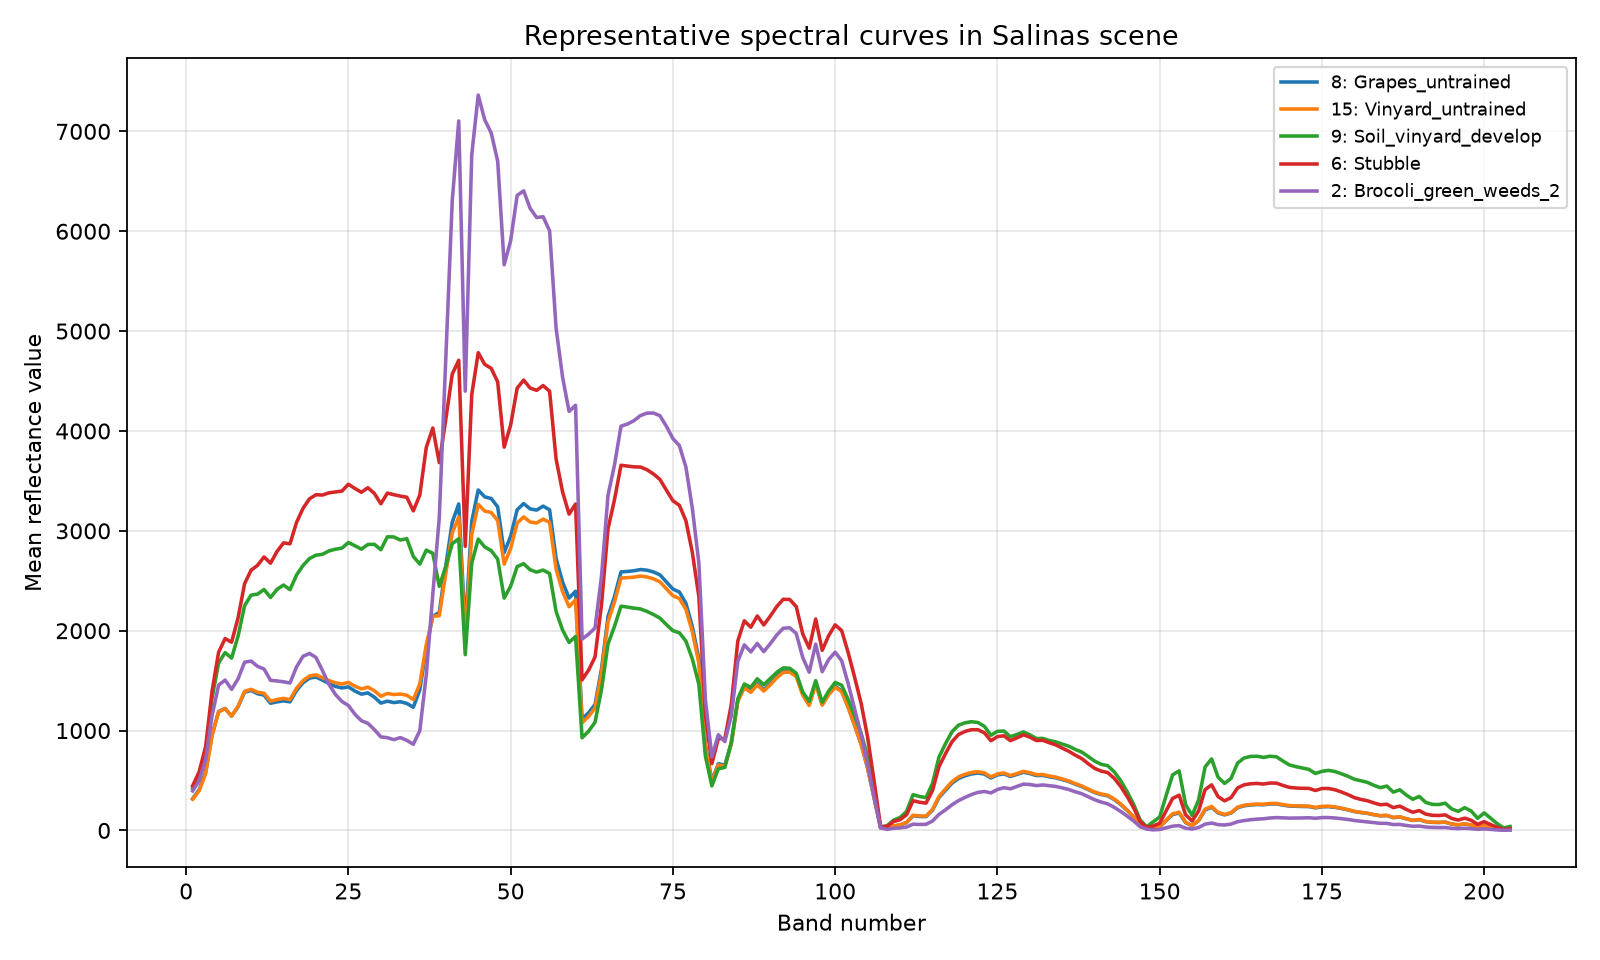
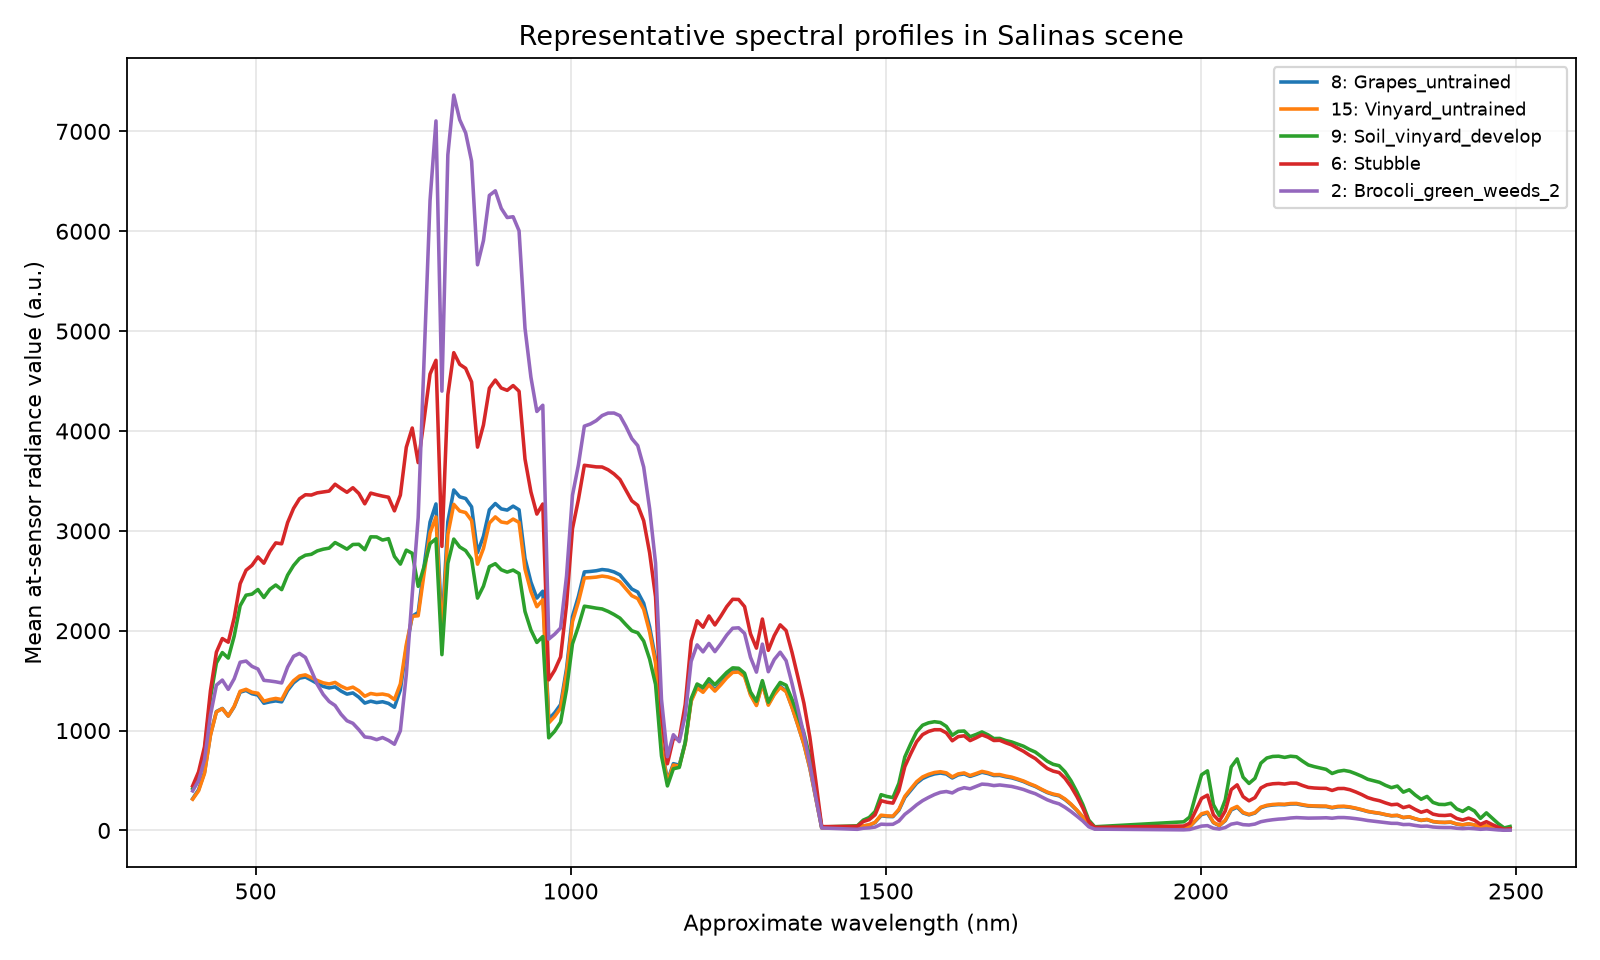
Improve hyperspectral academic documentation

diff --git a/T2/hsi_utils.py b/T2/hsi_utils.py
@@ -44,6 +44,12 @@ DEFAULT_GT_NAMES = (
     "botswana_gt",
 )
 
+SALINAS_REMOVED_BANDS_1BASED = (
+    *range(108, 113),
+    *range(154, 168),
+    224,
+)
+
 
 CLASS_NAMES = {
     "indian": {
@@ -167,6 +173,72 @@ def auto_rgb_bands(band_count: int) -> tuple[int, int, int]:
     green = max(1, min(band_count, round(band_count * 0.40)))
     blue = max(1, min(band_count, round(band_count * 0.20)))
     return red, green, blue
+
+
+def aviris_wavelengths_nm(
+    total_bands: int = 224,
+    start_nm: float = 400.0,
+    end_nm: float = 2500.0,
+    removed_bands_1based: tuple[int, ...] = (),
+) -> np.ndarray:
+    """Approximate AVIRIS band-center wavelengths in nm.
+
+    EHU .mat files do not include per-band wavelength metadata. For academic
+    reporting, this approximation maps AVIRIS 224 bands linearly from
+    400 nm to 2500 nm and removes the bands documented by EHU.
+    """
+    wavelengths = np.linspace(start_nm, end_nm, total_bands, dtype=np.float32)
+    if not removed_bands_1based:
+        return wavelengths
+
+    keep = np.ones(total_bands, dtype=bool)
+    for band in removed_bands_1based:
+        if 1 <= band <= total_bands:
+            keep[band - 1] = False
+    return wavelengths[keep]
+
+
+def salinas_corrected_wavelengths_nm(band_count: int) -> np.ndarray | None:
+    wavelengths = aviris_wavelengths_nm(removed_bands_1based=SALINAS_REMOVED_BANDS_1BASED)
+    if wavelengths.size == band_count:
+        return wavelengths
+    return None
+
+
+def default_false_color_bands(dataset_key: str | None, band_count: int) -> tuple[int, int, int]:
+    """Return 1-based RGB band numbers with a dataset-aware Salinas default."""
+    if dataset_key == "salinas" and band_count >= 57:
+        # NIR, red and green bands: vegetation appears bright in the red channel.
+        return 57, 27, 17
+    return auto_rgb_bands(band_count)
+
+
+def band_wavelength_labels(
+    dataset_key: str | None,
+    bands_1based: tuple[int, int, int],
+    band_count: int,
+) -> list[str]:
+    wavelengths = salinas_corrected_wavelengths_nm(band_count) if dataset_key == "salinas" else None
+    labels = []
+    for band in bands_1based:
+        if wavelengths is not None and 1 <= band <= len(wavelengths):
+            labels.append(f"{band} (~{wavelengths[band - 1]:.0f} nm)")
+        else:
+            labels.append(str(band))
+    return labels
+
+
+def spectral_axis(
+    dataset_key: str | None,
+    band_count: int,
+    prefer_wavelength: bool = True,
+) -> tuple[np.ndarray, str]:
+    """Return x-axis values and label for spectral plots."""
+    if prefer_wavelength and dataset_key == "salinas":
+        wavelengths = salinas_corrected_wavelengths_nm(band_count)
+        if wavelengths is not None:
+            return wavelengths, "Approximate wavelength (nm)"
+    return np.arange(1, band_count + 1), "Band number"
 
 
 def infer_dataset_key(*names: str) -> str | None:

diff --git a/T2/1.py b/T2/1.py
@@ -19,26 +19,42 @@ os.environ.setdefault("MPLCONFIGDIR", str(Path(".matplotlib").resolve()))
 import matplotlib.pyplot as plt
 import numpy as np
 
-from hsi_utils import auto_rgb_bands, load_cube
+from hsi_utils import band_wavelength_labels, default_false_color_bands, infer_dataset_key, load_cube
 
 
-def robust_normalize(channel: np.ndarray, low: float = 2.0, high: float = 98.0) -> np.ndarray:
+def normalize_channel(
+    channel: np.ndarray,
+    stretch: str,
+    low: float = 2.0,
+    high: float = 98.0,
+) -> np.ndarray:
     """Normalize one band with percentile clipping to improve visual contrast."""
     arr = channel.astype(np.float32, copy=False)
-    lo, hi = np.percentile(arr, [low, high])
+    if stretch == "minmax":
+        lo, hi = float(arr.min()), float(arr.max())
+    else:
+        lo, hi = np.percentile(arr, [low, high])
     if hi <= lo:
         return np.zeros(arr.shape, dtype=np.float32)
     return np.clip((arr - lo) / (hi - lo), 0.0, 1.0)
 
 
-def build_false_color(cube: np.ndarray, bands_1based: tuple[int, int, int]) -> np.ndarray:
+def build_false_color(
+    cube: np.ndarray,
+    bands_1based: tuple[int, int, int],
+    stretch: str,
+    clip_percentiles: tuple[float, float],
+) -> np.ndarray:
     band_count = cube.shape[2]
     if any(b < 1 or b > band_count for b in bands_1based):
         raise ValueError(f"Band numbers must be in 1..{band_count}, got {bands_1based}")
 
     # Extract only three bands, so memory stays small under the 1 GB limit.
     bands_0based = [b - 1 for b in bands_1based]
-    channels = [robust_normalize(cube[:, :, b]) for b in bands_0based]
+    channels = [
+        normalize_channel(cube[:, :, b], stretch, clip_percentiles[0], clip_percentiles[1])
+        for b in bands_0based
+    ]
     return np.dstack(channels)
 
 
@@ -55,19 +71,36 @@ def parse_args() -> argparse.Namespace:
         metavar=("R", "G", "B"),
         help="1-based band numbers mapped to red, green and blue. Auto-selected if omitted.",
     )
+    parser.add_argument(
+        "--stretch",
+        choices=("percentile", "minmax"),
+        default="percentile",
+        help="Contrast stretch used for PNG display.",
+    )
+    parser.add_argument(
+        "--clip-percentiles",
+        type=float,
+        nargs=2,
+        default=(2.0, 98.0),
+        metavar=("LOW", "HIGH"),
+        help="Percentiles used when --stretch percentile is selected.",
+    )
     return parser.parse_args()
 
 
 def main() -> None:
     args = parse_args()
     cube, variable = load_cube(args.input, args.variable)
-    bands = tuple(args.bands) if args.bands else auto_rgb_bands(cube.shape[2])
-    rgb = build_false_color(cube, bands)
+    dataset_key = infer_dataset_key(str(args.input), variable)
+    bands = tuple(args.bands) if args.bands else default_false_color_bands(dataset_key, cube.shape[2])
+    rgb = build_false_color(cube, bands, args.stretch, tuple(args.clip_percentiles))
 
     args.output.parent.mkdir(parents=True, exist_ok=True)
     plt.imsave(args.output, rgb)
     print(f"Saved false-color image to {args.output}")
     print(f"Cube variable: {variable}; shape: {cube.shape}; RGB bands: {bands}")
+    print(f"Band wavelength labels: {band_wavelength_labels(dataset_key, bands, cube.shape[2])}")
+    print(f"Display stretch: {args.stretch}; clip percentiles: {tuple(args.clip_percentiles)}")
 
 
 if __name__ == "__main__":

diff --git a/T2/2.py b/T2/2.py
@@ -20,7 +20,7 @@ os.environ.setdefault("MPLCONFIGDIR", str(Path(".matplotlib").resolve()))
 import matplotlib.pyplot as plt
 import numpy as np
 
-from hsi_utils import infer_dataset_key, label_for_class, load_cube, load_ground_truth, parse_classes
+from hsi_utils import infer_dataset_key, label_for_class, load_cube, load_ground_truth, parse_classes, spectral_axis
 
 
 def mean_spectrum_for_class(
@@ -43,6 +43,21 @@ def mean_spectrum_for_class(
     return spectra.mean(axis=0)
 
 
+def normalize_spectrum(spectrum: np.ndarray, method: str) -> np.ndarray:
+    arr = spectrum.astype(np.float32, copy=True)
+    if method == "minmax":
+        lo, hi = float(arr.min()), float(arr.max())
+        if hi > lo:
+            return (arr - lo) / (hi - lo)
+        return np.zeros_like(arr)
+    if method == "l2":
+        norm = float(np.linalg.norm(arr))
+        if norm > 0:
+            return arr / norm
+        return arr
+    return arr
+
+
 def parse_args() -> argparse.Namespace:
     parser = argparse.ArgumentParser()
     parser.add_argument("--cube", type=Path, default=Path("data/Salinas_corrected.mat"))
@@ -61,6 +76,18 @@ def parse_args() -> argparse.Namespace:
         default=2000,
         help="Maximum sampled pixels per class. Lower this if memory is very tight.",
     )
+    parser.add_argument(
+        "--x-axis",
+        choices=("wavelength", "band"),
+        default="wavelength",
+        help="Use approximate wavelength or band number on the spectral curve x-axis.",
+    )
+    parser.add_argument(
+        "--normalize",
+        choices=("none", "minmax", "l2"),
+        default="none",
+        help="Optional normalization for each plotted mean spectrum.",
+    )
     parser.add_argument("--seed", type=int, default=2025)
     return parser.parse_args()
 
@@ -73,16 +100,23 @@ def main() -> None:
     dataset_key = infer_dataset_key(str(args.cube), cube_variable, str(args.gt), gt_variable)
     rng = np.random.default_rng(args.seed)
 
-    x = np.arange(1, cube.shape[2] + 1)
+    x, xlabel = spectral_axis(dataset_key, cube.shape[2], prefer_wavelength=args.x_axis == "wavelength")
+    ylabel = "Mean at-sensor radiance value (a.u.)"
+    if args.normalize == "minmax":
+        ylabel = "Min-max normalized mean spectrum"
+    elif args.normalize == "l2":
+        ylabel = "L2-normalized mean spectrum"
+
     plt.figure(figsize=(10, 6), dpi=160)
     for class_id in class_ids:
         spectrum = mean_spectrum_for_class(cube, gt, class_id, args.max_pixels, rng)
+        spectrum = normalize_spectrum(spectrum, args.normalize)
         label = label_for_class(dataset_key, class_id)
         plt.plot(x, spectrum, linewidth=1.6, label=f"{class_id}: {label}")
 
-    plt.title("Representative spectral curves in Salinas scene")
-    plt.xlabel("Band number")
-    plt.ylabel("Mean reflectance value")
+    plt.title("Representative spectral profiles in Salinas scene")
+    plt.xlabel(xlabel)
+    plt.ylabel(ylabel)
     plt.grid(True, alpha=0.3)
     plt.legend(fontsize=8)
     plt.tight_layout()
@@ -93,6 +127,7 @@ def main() -> None:
     print(f"Saved spectral-curve plot to {args.output}")
     print(f"Cube variable: {cube_variable}; GT variable: {gt_variable}; shape: {cube.shape}")
     print(f"Classes: {class_ids}; max_pixels/class: {args.max_pixels}")
+    print(f"X-axis: {args.x_axis}; normalization: {args.normalize}")
 
 
 if __name__ == "__main__":

diff --git a/README.md b/README.md
@@ -40,6 +40,20 @@ data/Salinas_gt.mat
 
 说明：原始 `.mat` 数据文件较大，仓库中没有上传，需要按上述方式自行下载。
 
+## 数据集与光谱含义
+
+本项目默认使用的 Salinas scene 是 AVIRIS 传感器获取的高光谱数据。`Salinas_corrected.mat` 的空间尺寸为 `512 x 217`，包含 `204` 个有效波段。原始 AVIRIS 数据通常有 `224` 个波段，EHU 提供的 corrected 版本去除了部分水汽吸收等噪声波段，因此剩余 `204` 个波段。
+
+需要注意的是，EHU 页面提供的 Salinas 数据通常表述为 **at-sensor radiance data**。因此，本项目中光谱曲线纵轴默认写作：
+
+```text
+Mean at-sensor radiance value (a.u.)
+```
+
+也就是平均传感器接收辐亮度/数据值，单位以任意单位 `a.u.` 表示。除非额外进行大气校正或反射率标定，否则不应把它严格表述为地表反射率。
+
+由于 `.mat` 文件中没有直接保存每个波段的中心波长，本项目在绘制 Salinas 光谱曲线时使用 AVIRIS 常见范围 `400 nm - 2500 nm` 做线性近似，并删除 EHU corrected 数据中被去除的波段，从而得到 `204` 个近似波长位置。该处理主要用于增强图像解读和汇报表达；如果有传感器官方精确波长表，应优先替换为官方波长。
+
 ## 环境安装
 
 建议使用虚拟环境：
@@ -80,6 +94,20 @@ data/Salinas_corrected.mat
 T2/1.png
 ```
 
+`T2/1.py` 默认采用假彩色合成。对于 Salinas corrected 数据，默认波段组合为：
+
+```text
+R = 第 57 波段，约 927 nm，近红外
+G = 第 27 波段，约 645 nm，红光
+B = 第 17 波段，约 551 nm，绿光
+```
+
+该组合相当于“近红外-红-绿”假彩色合成，常用于突出植被差异。显示前会对每个通道做 `2% - 98%` 百分位拉伸，减少极端值对显示效果的影响。若希望使用普通 min-max 拉伸，也可以运行：
+
+```bash
+python T2/1.py --stretch minmax
+```
+
 ### 2. 生成典型地物光谱曲线图
 
 运行：
@@ -99,6 +127,18 @@ data/Salinas_gt.mat
 
 ```text
 T2/2.png
+```
+
+`T2/2.py` 默认使用近似波长作为横轴，而不是仅使用波段编号。若只想显示波段编号，可以运行：
+
+```bash
+python T2/2.py --x-axis band
+```
+
+光谱曲线默认绘制原始平均辐亮度/数据值，不做归一化。若只比较曲线形状、弱化不同地物整体亮度差异，可以使用 min-max 归一化：
+
+```bash
+python T2/2.py --normalize minmax
 ```
 
 ## 代码文件说明
@@ -162,6 +202,12 @@ spectrum = spectra.mean(axis=0)
 python T2/1.py --bands 57 27 17
 ```
 
+手动指定显示拉伸方式：
+
+```bash
+python T2/1.py --stretch minmax
+```
+
 手动指定要绘制的地物类别：
 
 ```bash
@@ -172,6 +218,12 @@ python T2/2.py --classes 1,6,8,10,15
 
 ```bash
 python T2/2.py --max-pixels 500
+```
+
+按曲线形状进行归一化显示：
+
+```bash
+python T2/2.py --normalize minmax
 ```
 
 ## 更换数据集
@@ -191,6 +243,25 @@ python T2/2.py --cube data/example.mat --gt data/example_gt.mat --cube-variable 
 ```
 
 注意：如果数据集没有 ground truth 标注文件，只能运行 `T2/1.py` 生成影像可视化图，不能按地物类别绘制光谱曲线。
+
+## 学术注意事项与可改进方向
+
+本项目已经完成题目要求的两个核心输出，但如果面向高光谱遥感方向的进一步考察，还可以从以下方面继续增强：
+
+1. **精确波长表**  
+   当前 Salinas 光谱曲线横轴使用 AVIRIS `400 nm - 2500 nm` 范围的线性近似波长，并根据 EHU corrected 数据删除水汽吸收等无效波段。该做法适合本题可视化汇报，但如果要写正式论文或进一步分析，应使用 AVIRIS 官方 band center wavelength 表。
+
+2. **辐亮度与反射率区分**  
+   当前曲线默认显示 at-sensor radiance/data value，不能直接等同于地表反射率。若要比较真实材料光谱特征，应进一步做辐射定标、大气校正或使用已经转为 reflectance 的数据。
+
+3. **光谱预处理**  
+   本题使用 EHU 的 corrected 数据，已经去除了部分噪声波段。更严格的研究流程还可以加入光谱平滑、异常像元剔除、归一化或标准化等预处理，并说明每一步对曲线形态的影响。
+
+4. **分割/分类算法边界**  
+   当前 `T2/2.py` 使用官方 ground truth 标注图进行标签掩膜分割，目的是提取已知地物类别的平均光谱曲线。这不是一个新的分类模型，也不评价分类精度。如果题目进一步要求地物识别或分类，应补充 SVM、Random Forest、PCA + K-means、谱角制图 SAM 或深度学习方法，并给出 OA、AA、Kappa 等指标。
+
+5. **可视化表达**  
+   当前结果图满足 PNG 输出要求。若用于正式汇报，可进一步增加地物类别颜色表、ground truth 伪彩图、采样点位置图，以及原始光谱与归一化光谱的对比图。
 
 ## 运行内存与空间复杂度说明
 